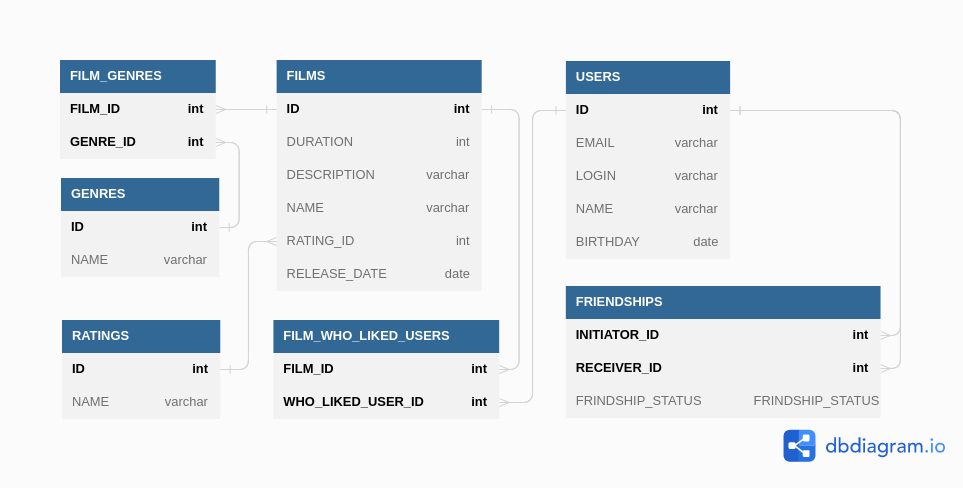
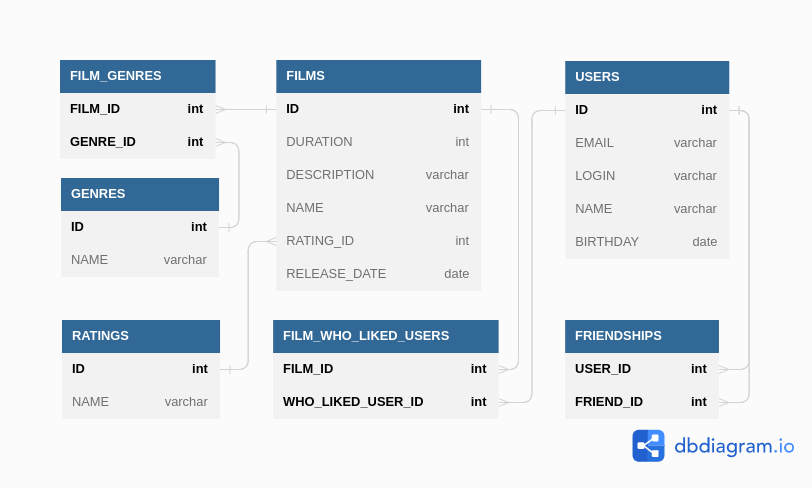
refactor: исключить поле статус из связи "Дружба"

diff --git a/src/main/java/ru/yandex/practicum/filmorate/storage/user/UserDbStorage.java b/src/main/java/ru/yandex/practicum/filmorate/storage/user/UserDbStorage.java
@@ -7,7 +7,6 @@ import org.springframework.jdbc.support.GeneratedKeyHolder;
 import org.springframework.jdbc.support.KeyHolder;
 import org.springframework.jdbc.support.rowset.SqlRowSet;
 import org.springframework.stereotype.Component;
-import ru.yandex.practicum.filmorate.model.FriendshipStatus;
 import ru.yandex.practicum.filmorate.model.User;
 import ru.yandex.practicum.filmorate.util.exeption.NotFoundException;
 
@@ -32,20 +31,19 @@ public class UserDbStorage implements UserStorage {
     public Collection<User> getAll() {
         String sqlQuery = "SELECT * FROM users";
 
-        Map<Long, Map<Long, FriendshipStatus>> userFriends = new HashMap<>();
+        Map<Long, Set<Long>> userFriends = new HashMap<>();
         jdbcTemplate.query("SELECT * FROM friendships", (rs -> {
-            long initiator_id = rs.getLong("initiator_id");
-            long receiver_id = rs.getLong("receiver_id");
-            String status = rs.getString("friendship_status");
-            userFriends.putIfAbsent(initiator_id, new HashMap<>());
-            userFriends.get(initiator_id).put(receiver_id, FriendshipStatus.valueOf(status));
+            long userId = rs.getLong("user_id");
+            long friendId = rs.getLong("friend_id");
+            userFriends.putIfAbsent(userId, new HashSet<>());
+            userFriends.get(userId).add(friendId);
         }));
 
         List<User> users = jdbcTemplate.query(sqlQuery, ((rs, rowNum) -> makeUser(rs)));
         users.forEach(user -> {
-            Map<Long, FriendshipStatus> friends = userFriends.get(user.getId());
-            if (friends != null) {
-                user.getFriends().putAll(friends);
+            Set<Long> friendIds = userFriends.get(user.getId());
+            if (friendIds != null) {
+                user.getFriendIds().addAll(friendIds);
             }
         });
         return users;
@@ -66,7 +64,7 @@ public class UserDbStorage implements UserStorage {
             return stmt;
         }, keyHolder);
 
-        long userId = keyHolder.getKey().longValue();
+        long userId = Objects.requireNonNull(keyHolder.getKey()).longValue();
         user.setId(userId);
         updateFriends(user);
         log.info("Пользователь {} создан с идентификатором {}", user.getEmail(), userId);
@@ -97,16 +95,13 @@ public class UserDbStorage implements UserStorage {
 
     @Override
     public User get(Long id) {
-        SqlRowSet sqlRowSet = jdbcTemplate.queryForRowSet("SELECT * FROM users WHERE id = ?", id);
-        String friendQuery = "SELECT * FROM friendships WHERE initiator_id = ?";
-
-        Map<Long, FriendshipStatus> friends = new HashMap<>();
-        jdbcTemplate.query(friendQuery, (rs -> {
-            long receiver_id = rs.getLong("receiver_id");
-            String status = rs.getString("friendship_status");
-            friends.put(receiver_id, FriendshipStatus.valueOf(status));
+        Set<Long> friendIds = new HashSet<>();
+        jdbcTemplate.query("SELECT * FROM friendships WHERE user_id = ?", (rs -> {
+            long friend_id = rs.getLong("friend_id");
+            friendIds.add(friend_id);
         }), id);
 
+        SqlRowSet sqlRowSet = jdbcTemplate.queryForRowSet("SELECT * FROM users WHERE id = ?", id);
         if (sqlRowSet.next()) {
             User user = new User(
                     sqlRowSet.getString("email"),
@@ -115,7 +110,7 @@ public class UserDbStorage implements UserStorage {
 
             user.setId(sqlRowSet.getLong("id"));
             user.setName(sqlRowSet.getString("name"));
-            user.getFriends().putAll(friends);
+            user.getFriendIds().addAll(friendIds);
 
             log.info("Найден пользователь: {} {}", user.getId(), user.getEmail());
             return user;
@@ -136,13 +131,13 @@ public class UserDbStorage implements UserStorage {
     }
 
     private void updateFriends(User user) {
-        jdbcTemplate.update("DELETE FROM friendships WHERE initiator_id = ?", user.getId());
+        jdbcTemplate.update("DELETE FROM friendships WHERE user_id = ?", user.getId());
 
-        if (!user.getFriends().isEmpty()) {
-            for (Map.Entry<Long, FriendshipStatus> pair : user.getFriends().entrySet()) {
-                jdbcTemplate.update("INSERT INTO friendships(initiator_id, receiver_id, friendship_status)" +
-                                "VALUES (?,?,?)",
-                        user.getId(), pair.getKey(), pair.getValue().toString()
+        if (!user.getFriendIds().isEmpty()) {
+            for (Long friendId : user.getFriendIds()) {
+                jdbcTemplate.update("INSERT INTO friendships(user_id, friend_id)" +
+                                "VALUES (?,?)",
+                        user.getId(), friendId
                 );
             }
         }

diff --git a/src/main/java/ru/yandex/practicum/filmorate/service/user/UserService.java b/src/main/java/ru/yandex/practicum/filmorate/service/user/UserService.java
@@ -2,7 +2,6 @@ package ru.yandex.practicum.filmorate.service.user;
 
 import org.springframework.beans.factory.annotation.Qualifier;
 import org.springframework.stereotype.Service;
-import ru.yandex.practicum.filmorate.model.FriendshipStatus;
 import ru.yandex.practicum.filmorate.model.User;
 import ru.yandex.practicum.filmorate.storage.user.UserStorage;
 
@@ -41,17 +40,20 @@ public class UserService {
         User user = userStorage.get(userId);
         User friend = userStorage.get(friendId);
 
-        user.getFriends().put(friend.getId(), FriendshipStatus.NOT_CONFIRMED);
+        user.getFriendIds().add(friend.getId());
 
         userStorage.update(friend);
         return userStorage.update(user);
     }
 
-    public User addConfirmFriend(Long userId, Long friendId) {
+    public User addFriendWithConfirm(Long userId, Long friendId) {
         User user = userStorage.get(userId);
         User friend = userStorage.get(friendId);
 
-        user.getFriends().put(friend.getId(), FriendshipStatus.CONFIRMED);
+        user.getFriendIds().add(friend.getId());
+        friend.getFriendIds().add(userId);
+
+        userStorage.update(friend);
         return userStorage.update(user);
     }
 
@@ -59,7 +61,7 @@ public class UserService {
         User user = userStorage.get(userId);
         User friend = userStorage.get(friendId);
 
-        user.getFriends().remove(friendId);
+        user.getFriendIds().remove(friendId);
 
         userStorage.update(friend);
         return userStorage.update(user);
@@ -67,14 +69,14 @@ public class UserService {
 
     public Collection<User> getFriends(Long userId) {
         User user = userStorage.get(userId);
-        return user.getFriends().keySet().stream().map(userStorage::get).collect(Collectors.toList());
+        return user.getFriendIds().stream().map(userStorage::get).collect(Collectors.toList());
     }
 
     public Collection<User> getCommonFriends(Long userId, Long otherId) {
         User user = userStorage.get(userId);
         User other = userStorage.get(otherId);
-        Set<Long> userFriends = user.getFriends().keySet();
-        Set<Long> otherFriends = other.getFriends().keySet();
+        Set<Long> userFriends = user.getFriendIds();
+        Set<Long> otherFriends = other.getFriendIds();
         return userFriends.stream()
                 .filter(otherFriends::contains)
                 .map(userStorage::get)

diff --git a/src/main/java/ru/yandex/practicum/filmorate/model/User.java b/src/main/java/ru/yandex/practicum/filmorate/model/User.java
@@ -5,8 +5,8 @@ import ru.yandex.practicum.filmorate.util.ValidationUtil;
 
 import javax.validation.constraints.*;
 import java.time.LocalDate;
-import java.util.HashMap;
-import java.util.Map;
+import java.util.HashSet;
+import java.util.Set;
 
 @Data
 public class User {
@@ -21,5 +21,5 @@ public class User {
     private final LocalDate birthday;
     private Long id;
     private String name;
-    private Map<Long, FriendshipStatus> friends = new HashMap<>();
+    private Set<Long> friendIds = new HashSet<>();
 }

diff --git a/src/main/java/ru/yandex/practicum/filmorate/controller/UserController.java b/src/main/java/ru/yandex/practicum/filmorate/controller/UserController.java
@@ -64,7 +64,7 @@ public class UserController {
 
     @PutMapping("/{id}/friends/{friendId}/confirm")
     public User confirmFriend(@PathVariable Long id, @PathVariable Long friendId) {
-        return userService.addConfirmFriend(id, friendId);
+        return userService.addFriendWithConfirm(id, friendId);
     }
 
     @GetMapping("/{id}/friends")
